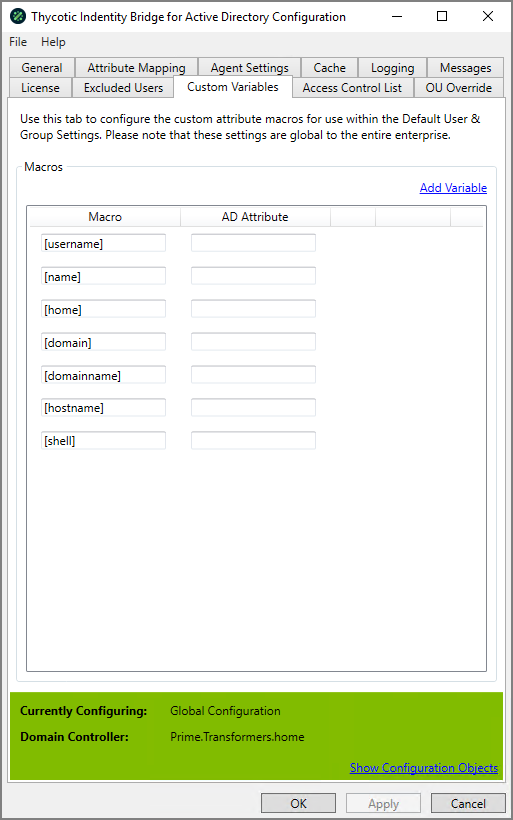
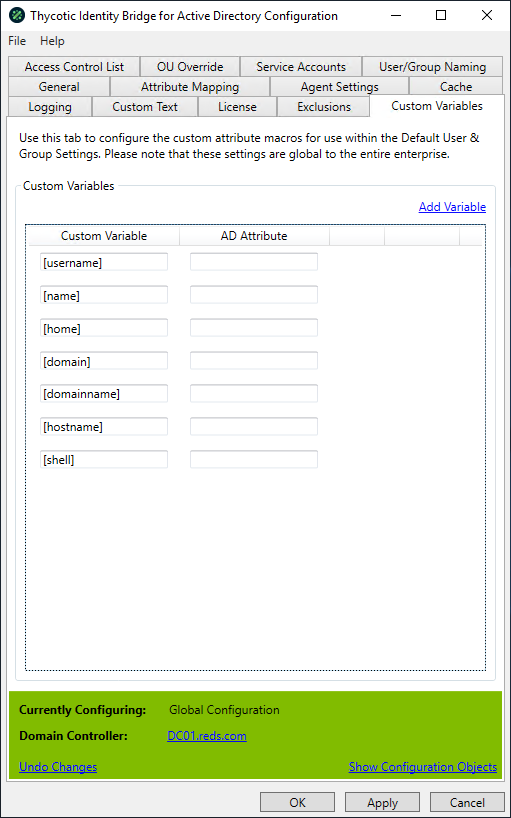
#217983; #219041: release notes for 1.1.2 and ui tweaks changes

diff --git a/install/sw-downloads.md b/install/sw-downloads.md
@@ -14,23 +14,23 @@ This page provides links to Thycotic Identity Bridge product software downloads.
 
 | OS | Flavor | Version | Product |
 | ----- | ----- | ----- | ----- |
-| Windows Management Tools | | refer to [System Requirements](index.md#windows__amp__active_directory_requirements) | [Thycotic Identity Bridge for Windows Package V1.1.1](https://tmsnuget.thycotic.com/software/IdBridge/ThycoticIdentityBridge_x64_v1.1.118.0.exe) |
-| | | | [Thycotic Identity Bridge Installer Only (No Dependencies) V1.1.1](https://tmsnuget.thycotic.com/software/IdBridge/ADBridge.Installer_x64_v1.1.118.0.msi) |
+| Windows Management Tools | | refer to [System Requirements](index.md#windows__amp__active_directory_requirements) | [Thycotic Identity Bridge for Windows Package V1.1.2](https://tmsnuget.thycotic.com/software/IdBridge/ThycoticIdentityBridge_x64_v1.1.125.0.exe) |
+| | | | [Thycotic Identity Bridge Installer Only (No Dependencies) V1.1.2](https://tmsnuget.thycotic.com/software/IdBridge/ADBridge.Installer_x64_v1.1.125.0.msi) |
 | Linux | Redhat | 6.x | coming soon |
-| | | 7.x | [Thycotic Identity Bridge Linux Agent V1.1.1](https://tmsnuget.thycotic.com/software/IdBridge/pmagent_x86_64_v1.1.16_rhel7.rpm) |
-| | | 8.x | [Thycotic Identity Bridge Linux Agent V1.1.1](https://tmsnuget.thycotic.com/software/IdBridge/pmagent_x86_64_v1.1.16_rhel8.rpm) |
+| | | 7.x | [Thycotic Identity Bridge Linux Agent V1.1.2](https://tmsnuget.thycotic.com/software/IdBridge/pmagent_x86_64_v1.1.22_rhel7.rpm) |
+| | | 8.x | [Thycotic Identity Bridge Linux Agent V1.1.2](https://tmsnuget.thycotic.com/software/IdBridge/pmagent_x86_64_v1.1.22_rhel8.rpm) |
 | | CentOS | 6.x | coming soon |
-| | | 7.x | [Thycotic Identity Bridge Linux Agent V1.1.1](https://tmsnuget.thycotic.com/software/IdBridge/pmagent_x86_64_v1.1.16_centos7.rpm) |
-| | | 8.x | [Thycotic Identity Bridge Linux Agent V1.1.1](https://tmsnuget.thycotic.com/software/IdBridge/pmagent_x86_64_v1.1.16_centos8.rpm) |
+| | | 7.x | [Thycotic Identity Bridge Linux Agent V1.1.2](https://tmsnuget.thycotic.com/software/IdBridge/pmagent_x86_64_v1.1.22_centos7.rpm) |
+| | | 8.x | [Thycotic Identity Bridge Linux Agent V1.1.2](https://tmsnuget.thycotic.com/software/IdBridge/pmagent_x86_64_v1.1.22_centos8.rpm) |
 | | Ubuntu LTS | 14.x | coming soon |
-| | | 16.x | coming soon |
-| | | 18.04 | [Thycotic Identity Bridge Linux Agent V1.1.1](https://tmsnuget.thycotic.com/software/IdBridge/pmagent_x86_64_v1.1.16_ubuntu18.deb) |
-| | | 20.04 | [Thycotic Identity Bridge Linux Agent V1.1.1](https://tmsnuget.thycotic.com/software/IdBridge/pmagent_x86_64_v1.1.16_ubuntu20.deb) |
+| | | 22.x | coming soon |
+| | | 18.04 | [Thycotic Identity Bridge Linux Agent V1.1.2](https://tmsnuget.thycotic.com/software/IdBridge/pmagent_x86_64_v1.1.22_ubuntu18.deb) |
+| | | 20.04 | [Thycotic Identity Bridge Linux Agent V1.1.2](https://tmsnuget.thycotic.com/software/IdBridge/pmagent_x86_64_v1.1.22_ubuntu20.deb) |
 | | SuSE Enterprise | 12.x | coming soon |
 | | | 15.x | coming soon |
 | | Oracle | 6.x | coming soon |
-| | | 7.x | [Thycotic Identity Bridge Linux Agent V1.1.1](https://tmsnuget.thycotic.com/software/IdBridge/pmagent_x86_64_v1.1.16_oraclelinux7.rpm) |
-| | | 8.x | [Thycotic Identity Bridge Linux Agent V1.1.1](https://tmsnuget.thycotic.com/software/IdBridge/pmagent_x86_64_v1.1.16_oraclelinux8.rpm) |
+| | | 7.x | [Thycotic Identity Bridge Linux Agent V1.1.2](https://tmsnuget.thycotic.com/software/IdBridge/pmagent_x86_64_v1.1.22_oraclelinux7.rpm) |
+| | | 8.x | [Thycotic Identity Bridge Linux Agent V1.1.2](https://tmsnuget.thycotic.com/software/IdBridge/pmagent_x86_64_v1.1.22_oraclelinux8.rpm) |
 | Unix | AIX | 6.x | coming soon |
 | | | 7.x | coming soon |
 | | HP-UX | 11i v3 | coming soon |

diff --git a/install/inst-agent/inst-agent-ubuntu.md b/install/inst-agent/inst-agent-ubuntu.md
@@ -30,16 +30,16 @@ There are 2 methods for installing packages, DPKG and APT, both methods are outl
 
 Performed as non root user with sudo permissions
 
-`>> sudo dpkg -i pmagent-1.1.16-Linux.deb`
+`>> sudo dpkg -i pmagent-1.1.22-Linux.deb`
 
 Below is the expected output of a successful installation
 
 ```
 Selecting previously unselected package pmagent.
 (Reading database ... 184828 files and directories currently installed.)
-Preparing to unpack pmagent-1.1.16-Linux.deb ...
-Unpacking pmagent (1.1.16) ...
-Setting up pmagent (1.1.16) ...
+Preparing to unpack pmagent-1.1.22-Linux.deb ...
+Unpacking pmagent (1.1.22) ...
+Setting up pmagent (1.1.22) ...
 Created symlink /etc/systemd/system/multi-user.target.wants/pmagent.service → /etc/systemd/system/pmagent.service.
 
 Please start the pmagent service by running:
@@ -54,7 +54,7 @@ using the command:
 
 Performed as non root user with sudo permissions
 
-`>> sudo apt install /root/Thycotic/pmagent-1.1.16-Linux.deb`
+`>> sudo apt install /root/Thycotic/pmagent-1.1.22-Linux.deb`
 
 Below is the expected output of a successful installation
 
@@ -62,7 +62,7 @@ Below is the expected output of a successful installation
 Reading package lists... Done
 Building dependency tree
 Reading state information... Done
-Note, selecting 'pmagent' instead of '/home/installer/pmagent-1.1.16-Linux.deb'
+Note, selecting 'pmagent' instead of '/home/installer/pmagent-1.1.22-Linux.deb'
 The following packages were automatically installed and are no longer required:
   linux-hwe-5.4-headers-5.4.0-42 tcpd
 Use 'sudo apt autoremove' to remove them.
@@ -71,12 +71,12 @@ The following NEW packages will be installed
 0 to upgrade, 1 to newly install, 0 to remove and 92 not to upgrade.
 Need to get 0 B/8,669 kB of archives.
 After this operation, 28.5 MB of additional disk space will be used.
-Get:1 /home/installer/pmagent-1.1.16-Linux.deb pmagent amd64 1.1.16 [8,669 kB]
+Get:1 /home/installer/pmagent-1.1.22-Linux.deb pmagent amd64 1.1.22 [8,669 kB]
 Selecting previously unselected package pmagent.
 (Reading database ... 184828 files and directories currently installed.)
-Preparing to unpack .../pmagent-1.1.16-Linux.deb ...
-Unpacking pmagent (1.1.16) ...
-Setting up pmagent (1.1.16) ...
+Preparing to unpack .../pmagent-1.1.22-Linux.deb ...
+Unpacking pmagent (1.1.22) ...
+Setting up pmagent (1.1.22) ...
 Created symlink /etc/systemd/system/multi-user.target.wants/pmagent.service → /etc/systemd/system/pmagent.service.
 
 Please start the pmagent service by running:

diff --git a/install/inst-agent/inst-agent.md b/install/inst-agent/inst-agent.md
@@ -69,11 +69,11 @@ Where, pmagent_x86_64_vn.n.n.rpm is replaced with the actual software package an
 ```
 Below is the expected output of a successful installation
 Loaded plugins: fastestmirror, langpacks
-Examining pmagent_x86_64_v1.1.1.rpm:  pmagent_x86_64_1.1.16
-Marking pmagent_x86_64_v1.1.1.rpm to be installed
+Examining pmagent_x86_64_v1.1.2.rpm:  pmagent_x86_64_1.1.22
+Marking pmagent_x86_64_v1.1.2.rpm to be installed
 Resolving Dependencies
 --> Running transaction check
----> Package pmagent.x86_64 0:1.1.16 will be installed
+---> Package pmagent.x86_64 0:1.1.22 will be installed
 --> Finished Dependency Resolution
 
 Dependencies Resolved
@@ -85,7 +85,7 @@ Package         Arch         Version         Repository                  Size
 ==============================================================================
 Installing:
 
-pmagent         x86_64        1.1.16        /pmagent_x86_64_v1.1.1       50 M
+pmagent         x86_64        1.1.22        /pmagent_x86_64_v1.1.2       50 M
 
 Transaction Summary
 ==============================================================================
@@ -98,7 +98,7 @@ Running transaction check
 Running transaction test
 Transaction test succeeded
 Running transaction
-  Installing : pmagent_x86_64_1.1.16 1/1
+  Installing : pmagent_x86_64_1.1.22 1/1
 Created symlink from /etc/systemd/system/multi-user.target.wants/pmagent.service to /etc/systemd/system/pmagent.service.
 
 Please start the pmagent service by running:
@@ -107,10 +107,10 @@ Please start the pmagent service by running:
 You need to join an Active Directory domain to start authenticating users using the command:
   /opt/thycotic/sbin/pmagent --join
 
-Verifying : pmagent_x86_64_1.1.16 1/1
+Verifying : pmagent_x86_64_1.1.22 1/1
 
 Installed:
-pmagent_x86_64_1.1.16
+pmagent_x86_64_1.1.22
 Complete!
 ```
 

diff --git a/cfg-util/cust-var/index.md b/cfg-util/cust-var/index.md
@@ -1,16 +1,16 @@
-[title]: # (Customer Variables)
+[title]: # (Custom Variables)
 [tags]: # (panel)
 [priority]: # (6)
-# Customer Variables
+# Custom Variables
 
-Use this tab to configure the custom attribute macros for use within the Default User & Group Settings. Please note that these settings are global to the entire enterprise.
+Use this tab to configure the custom attribute variables for use within the Default User & Group Settings. Please note that these settings are global to the entire enterprise.
 
-![customer variables](../images/cust-var.png "Customer Variables tab of the Bridge Configuration tool")
+![custom variables](../images/cust-var.png "Custom Variables tab of the Bridge Configuration tool")
 
 ## Add Variable
 
-Adds a new line to the panel and allows you to define a Macro name and then select from a list of Active Directory attributes and define a single attribute mapping per Macro.
+Adds a new line to the panel and allows you to define a variable name and then select from a list of Active Directory attributes and define a single attribute mapping per variable.
 
 ## Defaults
 
-A number of predefined default Macros have been added by Thycotic, these are also used in the Messages panel.
+A number of predefined default variables have been added by Thycotic, these are also used in the Messages panel.

diff --git a/cfg-util/index.md b/cfg-util/index.md
@@ -29,9 +29,9 @@ Allow Active directory values to be mapped to Thycotic ID Bridge fields. For exa
 
 Sets the amount of time the local Linux/Unix agent will store a copy of the users password within the agent's encrypted database. This is required in the event the Agent is unable to contact AD to verify the users credentials.
 
-## [Customer Variables](cust-var/index.md)
+## [Custom Variables](cust-var/index.md)
 
-Allows the ID Bridge user to configure the custom attribute macros for use within the Default User & Group Settings.
+Allows the ID Bridge user to configure the custom attribute variables for use within the Default User & Group Settings.
 
 ## [Exclusions](excl-users/index.md)
 
@@ -68,3 +68,9 @@ The [File Menu](file-menu/index.md) of the configuration utility offers options 
 * Go to Global Configuration: If user is not already in the global configuration selecting this option navigates to it.
 * [Export Backup](file-menu/index.md#export_backup)
 * [Import Backup](file-menu/index.md#import_backup)
+
+## Help Menu
+
+To view information about component versions of the Thycotic Identity Bridge, navigate to __Help__ and select __About__.
+
+![about](images/about.png "About modal")

diff --git a/release-notes/rn-1.1.2.md b/release-notes/rn-1.1.2.md
@@ -1,0 +1,18 @@
+[title]: # (1.1.2 Release)
+[tags]: # (read me)
+[priority]: # (30996)
+# 1.1.2 Release Notes
+
+_January 11th, 2021_:
+
+## Enhancements
+
+Enhancements available with the 1.1.2 release of Identity Bridge.
+
+* Added an [About](../cfg-util/index.md#help_menu) modal to provide version details.
+
+## Bug Fixes
+
+* Fix to improve local AD group caching in API.
+* Group checking performance fix.
+* Improvement to Group expansion for users defined in ACL.

diff --git a/release-notes/index.md b/release-notes/index.md
@@ -5,6 +5,7 @@
 
 This section includes the most recent Identity Bridge Release Notes.
 
+* [1.1.2 Release Notes - Feature Release](rn-1.1.2.md)
 * [1.1.1 Release Notes - Feature Release](rn-1.1.1.md)
 * [1.1.0 Release Notes - Feature Release](rn-1.1.0.md)
 * [1.0.1 Release Notes - Bug Fix Release](rn-1.0.1.md)

diff --git a/release-notes/changelog.md b/release-notes/changelog.md
@@ -5,6 +5,10 @@
 
 This topic provides a chronological list of documentation changes. Minor content alterations are not tracked.
 
+## January 2021
+
+* Added [About](../cfg-util/index.md#help_menu)
+
 ## December 2020
 
 Added information to:
